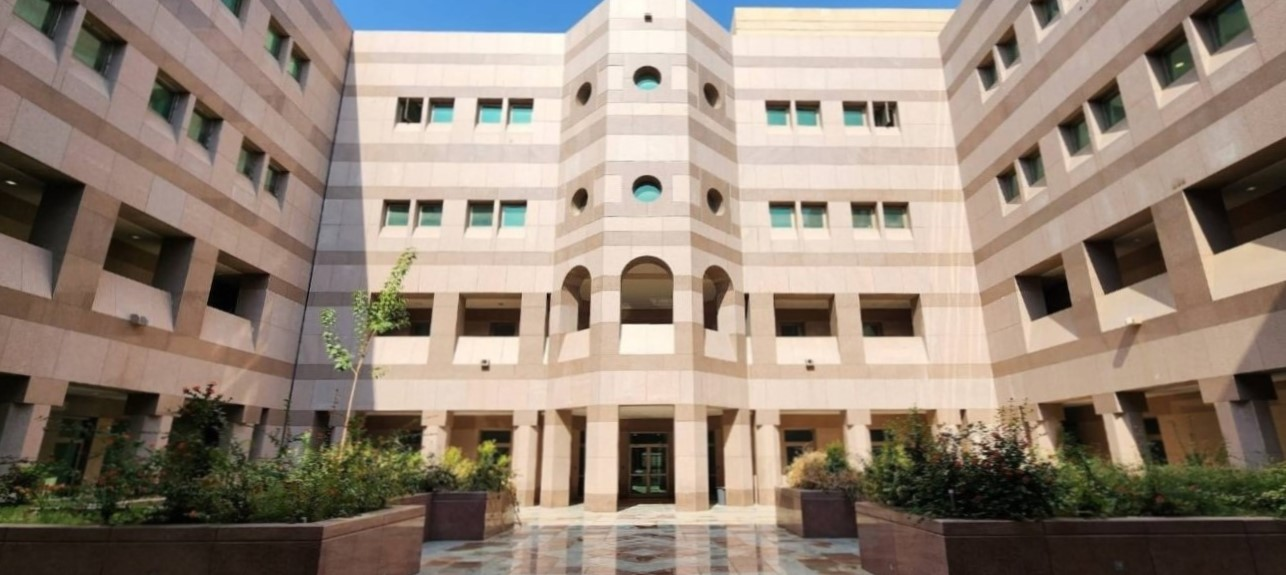
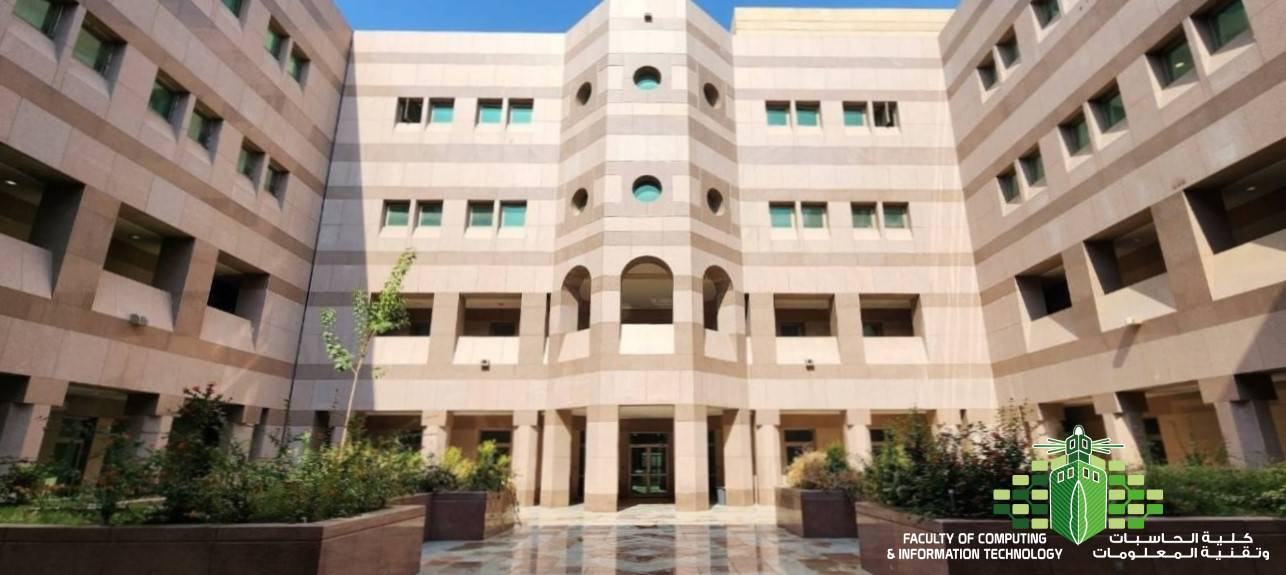
Added performance testing and system testing. Added a new background image in home page. Added a new footer link called "Feedback"

Changed region(s): [[0.6843, 0.7391, 0.9953, 0.9757]]

diff --git a/Testing/systemtesting/playwright.config.js b/Testing/systemtesting/playwright.config.js
@@ -1,0 +1,81 @@
+// @ts-check
+import { defineConfig, devices } from '@playwright/test';
+
+/**
+ * Read environment variables from file.
+ * https://github.com/motdotla/dotenv
+ */
+// import dotenv from 'dotenv';
+// import path from 'path';
+// dotenv.config({ path: path.resolve(__dirname, '.env') });
+
+/**
+ * @see https://playwright.dev/docs/test-configuration
+ */
+export default defineConfig({
+  testDir: './tests',
+  /* Run tests in files in parallel */
+  fullyParallel: true,
+  /* Fail the build on CI if you accidentally left test.only in the source code. */
+  forbidOnly: !!process.env.CI,
+  /* Retry on CI only */
+  retries: process.env.CI ? 2 : 0,
+  /* Opt out of parallel tests on CI. */
+  workers: process.env.CI ? 1 : undefined,
+  /* Reporter to use. See https://playwright.dev/docs/test-reporters */
+  reporter: 'html',
+  /* Shared settings for all the projects below. See https://playwright.dev/docs/api/class-testoptions. */
+  use: {
+    /* Base URL to use in actions like `await page.goto('/')`. */
+    // baseURL: 'http://127.0.0.1:3000',
+
+    /* Collect trace when retrying the failed test. See https://playwright.dev/docs/trace-viewer */
+    trace: 'on-first-retry',
+  },
+
+  /* Configure projects for major browsers */
+  projects: [
+    {
+      name: 'chromium',
+      use: { ...devices['Desktop Chrome'] },
+    },
+
+    {
+      name: 'firefox',
+      use: { ...devices['Desktop Firefox'] },
+    },
+
+    {
+      name: 'webkit',
+      use: { ...devices['Desktop Safari'] },
+    },
+
+    /* Test against mobile viewports. */
+    // {
+    //   name: 'Mobile Chrome',
+    //   use: { ...devices['Pixel 5'] },
+    // },
+    // {
+    //   name: 'Mobile Safari',
+    //   use: { ...devices['iPhone 12'] },
+    // },
+
+    /* Test against branded browsers. */
+    // {
+    //   name: 'Microsoft Edge',
+    //   use: { ...devices['Desktop Edge'], channel: 'msedge' },
+    // },
+    // {
+    //   name: 'Google Chrome',
+    //   use: { ...devices['Desktop Chrome'], channel: 'chrome' },
+    // },
+  ],
+
+  /* Run your local dev server before starting the tests */
+  // webServer: {
+  //   command: 'npm run start',
+  //   url: 'http://127.0.0.1:3000',
+  //   reuseExistingServer: !process.env.CI,
+  // },
+});
+

diff --git a/Testing/systemtesting/userappointments.spec.js b/Testing/systemtesting/userappointments.spec.js
@@ -1,0 +1,28 @@
+
+import { test, expect } from '@playwright/test';
+
+test('test', async ({ page }) => {
+  await page.goto('http://localhost:3000/');
+  await page.getByRole('button', { name: 'Hide' }).click();
+  await page.getByRole('navigation').getByRole('link', { name: 'Appointments' }).click();
+  await page.getByRole('textbox', { name: 'Email' }).click();
+  await page.getByRole('textbox', { name: 'Email' }).fill('official.hatimalharbi@gmail.com');
+  await page.getByRole('textbox', { name: 'Email' }).press('Tab');
+  await page.getByRole('textbox', { name: 'Password' }).fill('Password123');
+  await page.getByRole('textbox', { name: 'Password' }).press('Tab');
+  await page.getByTestId('login-button').click();
+  await page.getByRole('button', { name: 'Hide' }).click();
+  await page.getByRole('navigation').getByRole('link', { name: 'Appointments' }).click();
+  await page.getByText('\'; DROP TABLE hatim; --In ProgressCreated: May 7, 2025, 10:02').click();
+  await page.getByText('aaaaaaaaaaIn ProgressCreated').click();
+  await page.getByText('hello In ProgressCreated: May').click();
+  await page.getByRole('button', { name: '+ New Appointment' }).click();
+  await page.getByRole('textbox', { name: 'Appointment Title *' }).click();
+  await page.getByRole('textbox', { name: 'Appointment Title *' }).fill('I need bonus');
+  await page.getByRole('textbox', { name: 'Date *' }).fill('2027-10-18');
+  await page.getByText('11:30 AM').click();
+  await page.getByRole('textbox', { name: 'Description *' }).click();
+  await page.getByRole('textbox', { name: 'Description *' }).fill('This is for testing purposes, i dont need bonus but i\'d prefer it');
+  await page.getByRole('button', { name: 'Schedule Appointment' }).click();
+  await page.getByText('I need bonusIn ProgressCreated: May 10, 2025, 02:03 AMThis is for testing').click();
+});

diff --git a/Testing/systemtesting/usertickets.spec.js b/Testing/systemtesting/usertickets.spec.js
@@ -1,0 +1,25 @@
+import { test, expect } from '@playwright/test';
+
+test('test', async ({ page }) => {
+  await page.goto('http://localhost:3000/');
+  await page.getByRole('button', { name: 'Hide' }).click();
+  await page.getByRole('navigation').getByRole('link', { name: 'Tickets' }).click();
+  await page.getByRole('textbox', { name: 'Email' }).click();
+  await page.getByRole('textbox', { name: 'Email' }).fill('official.hatimalharbi@gmail.com');
+  await page.getByRole('textbox', { name: 'Email' }).press('Tab');
+  await page.getByRole('textbox', { name: 'Password' }).fill('Password123');
+  await page.getByRole('textbox', { name: 'Password' }).press('Tab');
+  await page.getByRole('checkbox', { name: 'Remember me' }).press('Tab');
+  await page.getByRole('link', { name: 'Forgot password?' }).press('Tab');
+  await page.getByTestId('login-button').click();
+  await page.getByRole('button', { name: 'Hide' }).click();
+  await page.getByRole('navigation').getByRole('link', { name: 'Tickets' }).click();
+  await page.getByRole('textbox', { name: 'Ticket Title *' }).click();
+  await page.getByRole('textbox', { name: 'Ticket Title *' }).fill('Meeting');
+  await page.getByRole('textbox', { name: 'Ticket Title *' }).press('Tab');
+  await page.getByRole('textbox', { name: 'Description *' }).fill('Please have a meeting with me at 10 o\'clock');
+  await page.getByRole('button', { name: 'Submit Ticket' }).click();
+  await page.getByText('MeetingIn ProgressCreated:').click();
+  await page.getByRole('button', { name: 'Close' }).click();
+  await page.getByRole('link', { name: 'Sign Out' }).click();
+});

diff --git a/Testing/systemtesting/resource.spec.js b/Testing/systemtesting/resource.spec.js
@@ -1,0 +1,27 @@
+
+import { test, expect } from '@playwright/test';
+
+test('test', async ({ page }) => {
+  await page.goto('http://localhost:3000/');
+  await page.getByRole('button', { name: 'Hide' }).click();
+  await page.getByRole('navigation').getByRole('link', { name: 'Resources' }).click();
+  await page.getByText('+').first().click();
+  await page.getByText('+').first().click();
+  const downloadPromise = page.waitForEvent('download');
+  await page.locator('div').filter({ hasText: /^Download−$/ }).getByRole('button').click();
+  const download = await downloadPromise;
+  const download1Promise = page.waitForEvent('download');
+  await page.locator('div').filter({ hasText: /^Download\+$/ }).getByRole('button').click();
+  const download1 = await download1Promise;
+  await page.getByText('course registeration and deletion 2+').click();
+  await page.getByText('test1234+').click();
+  await page.getByText('Course Addition and Deletion+').click();
+  await page.getByText('Course Deletion+').click();
+  await page.getByText('test2').click();
+  await page.getByRole('textbox', { name: 'Search for a topic...' }).click();
+  await page.getByRole('textbox', { name: 'Search for a topic...' }).fill('File');
+  await page.getByText('+').click();
+  const download2Promise = page.waitForEvent('download');
+  await page.getByRole('button', { name: 'Download' }).click();
+  const download2 = await download2Promise;
+});

diff --git a/Testing/systemtesting/chatbot.spec.js b/Testing/systemtesting/chatbot.spec.js
@@ -1,0 +1,21 @@
+import { test, expect } from '@playwright/test';
+
+test('test', async ({ page }) => {
+  await page.goto('http://localhost:3000/');
+  await page.getByRole('textbox', { name: 'Message...' }).click();
+  await page.getByRole('textbox', { name: 'Message...' }).fill('hello');
+  await page.getByRole('button', { name: 'Send' }).click();
+  await page.getByRole('textbox', { name: 'Message...' }).click();
+  await page.getByRole('textbox', { name: 'Message...' }).fill('how to find resources?');
+  await page.getByRole('button', { name: 'Send' }).click();
+  await page.getByRole('textbox', { name: 'Message...' }).click();
+  await page.getByRole('textbox', { name: 'Message...' }).fill('can i upload tickets?');
+  await page.getByRole('button', { name: 'Send' }).click();
+  await page.getByRole('textbox', { name: 'Message...' }).click();
+  await page.getByRole('textbox', { name: 'Message...' }).fill('what are you doing?');
+  await page.getByRole('button', { name: 'Send' }).click();
+  await page.getByRole('textbox', { name: 'Message...' }).click();
+  await page.getByRole('textbox', { name: 'Message...' }).fill('thank u');
+  await page.getByRole('button', { name: 'Send' }).click();
+  await page.getByRole('button', { name: 'Hide' }).click();
+});

diff --git a/Testing/systemtesting/app.spec.js b/Testing/systemtesting/app.spec.js
@@ -1,0 +1,23 @@
+import { test, expect } from '@playwright/test';
+
+
+
+test.describe('Public Routes', () => {
+  test('navigate to public routes', async ({ page }) => {
+    // Navigate to Home Page
+    await page.goto('http://localhost:3000/');
+    await expect(page.locator('h1')).toHaveText('Welcome to Smart Secretary System');
+
+    // Navigate to Login Page
+    await page.goto('http://localhost:3000/login');
+    await expect(page.locator('h1')).toHaveText('Welcome');
+
+    // Navigate to Signup Page
+    await page.goto('http://localhost:3000/signup');
+    await expect(page.locator('h1')).toHaveText('Create Account');
+
+    // Navigate to Resources Page
+    await page.goto('http://localhost:3000/resources');
+    await expect(page.locator('h1')).toHaveText('Resources');
+  });
+});

diff --git a/Testing/performancetesting/k6-test.js b/Testing/performancetesting/k6-test.js
@@ -1,0 +1,21 @@
+import http from 'k6/http';
+import { check } from 'k6';
+
+export let options = {
+  vus: 10, // Number of virtual users
+  duration: '5s', // Duration of the test
+};
+
+export default function () {
+  // Fetch resources
+  const resourcesResponse = http.get('http://localhost:5000/get_all_resources');
+
+  // Log the response for debugging
+  console.log('Resources Response:', resourcesResponse.body);
+
+  // Check if the request was successful
+  check(resourcesResponse, {
+    'Resources API status is 200': (res) => res.status === 200,
+  });
+  
+}

diff --git a/frontend/src/components/Footer/Footer.jsx b/frontend/src/components/Footer/Footer.jsx
@@ -38,6 +38,14 @@ const Footer = () => {
                 Profile
               </Link>
             </li>
+            <li>
+              <Link to="https://docs.google.com/forms/d/e/1FAIpQLSf_BOlGVRzFOyV_Qqt3whabtvrpMQP6fW7kooHI4i11pnAV0A/viewform?usp=dialog" 
+              className="footer-link"
+              target="_blank"
+              >
+                Feedback
+              </Link>
+            </li>
           </ul>
         </div>
 

diff --git a/Testing/playwright.config.js b/Testing/playwright.config.js
@@ -1,0 +1,16 @@
+// playwright.config.js
+import { defineConfig } from '@playwright/test';
+
+export default defineConfig({
+  // Specify the folder where your E2E tests are located
+  testDir: './tests',
+
+  // Base URL for your app
+  use: {
+    baseURL: 'http://localhost:3000',
+  },
+  workers: '95%',
+  timeout: 60000,
+
+  fullyParallel: true,
+});
